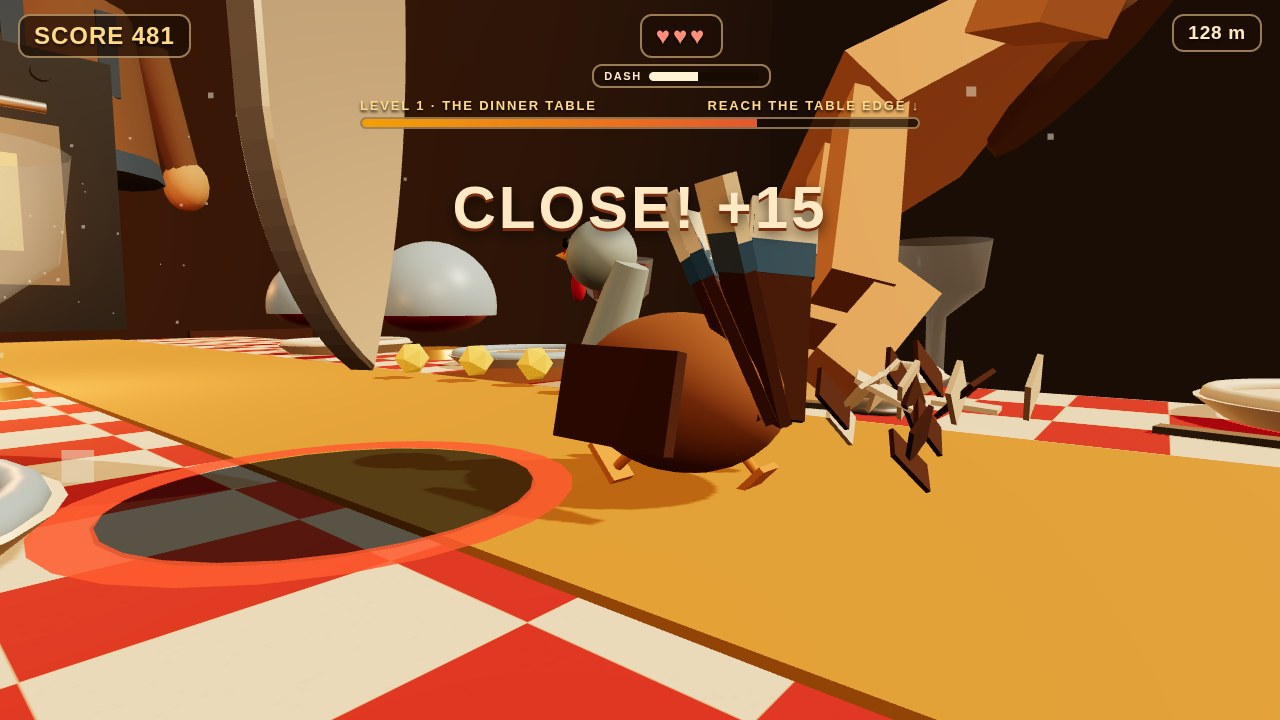
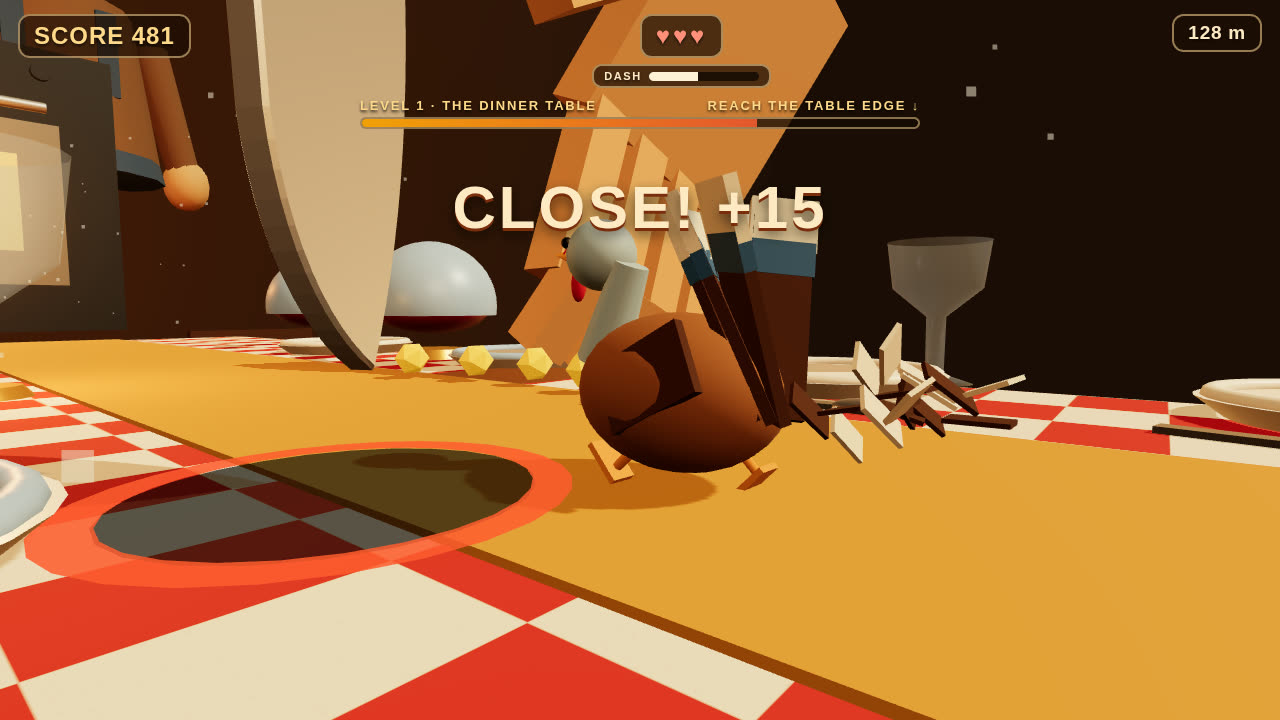
Hero fix: unoccluded turkey (wings tucked into flanks) + giant hand fully in frame, palm and fingers descending at top right

diff --git a/game/src/shots.js b/game/src/shots.js
@@ -27,10 +27,10 @@ export function stageShot(name, game) {
     // to the bird's rear-left so the body reads in three-quarter profile instead
     // of hiding behind its own tail fan, the turkey MID-DASH (stamina bar
     // mid-drain, feather burst blooming at its tail), the carving knife plunging
-    // one body-length to its left over a deep shadow, the farmer's fingers
-    // sweeping in at the frame's right edge, and the real HUD over it all with a
-    // CLOSE! +15 pop still on screen. A genuine gameplay frame, UI and all —
-    // not a cinematic.
+    // one body-length to its left over a deep shadow, the farmer's hand
+    // descending whole into the frame's top right, palm and fingers clear,
+    // and the real HUD over it all with a CLOSE! +15 pop still on screen.
+    // A genuine gameplay frame, UI and all — not a cinematic.
     game.setWorld(0);
     game.state = 'playing';
     game.hud.showHud();
@@ -41,6 +41,18 @@ export function stageShot(name, game) {
     game.turkeyX = -1.6;
     game.turkeyY = 0;
     turkey.group.position.set(-1.6, 0, -134);
+    // Tuck the wings into the flanks for the still: hanging at full size, the
+    // near wing's dark panel clears the body's curved surface and cuts the
+    // silhouette like a slab in front of the bird. Pulled in, shrunk a touch
+    // and swept back (pivot position/scale and rotation.x — animateTurkey
+    // only drives the pivots' rotation.z, so this pose survives the still's
+    // pose pass) the panel sinks into the flank and reads as the folded
+    // wing's shading on one clean round body.
+    for (const w of turkey.wings) {
+      w.pivot.rotation.x = -0.5;
+      w.pivot.position.x = w.side * 0.72;
+      w.pivot.scale.setScalar(0.8);
+    }
     game.stamina = 45;
     game.dashUntil = 999; // mid-dash: the stamina bar renders in its dashing state
     game.distance = 126.5; // burst origin a step behind the bird, so feathers read
@@ -76,16 +88,18 @@ export function stageShot(name, game) {
     knife.blob.visible = true;
     knife.ring.position.set(-4.6, 0.26, -137.2);
     knife.ring.visible = true;
-    // The farmer's hand swoops in from the top right, pitched down so the
-    // camera sees the palm's underside and the fingers curling down toward
-    // the bird — a grabbing hand, not the edge-on stack of boards the old
-    // cloth-height, level placement rendered as. The cuff exits the frame's
-    // top right corner; the bird keeps the centre.
+    // The farmer's hand descends whole into the top right of the frame:
+    // pitched steeply (rotation.x ≈ -1.15) so its fingers point down at the
+    // bird and the camera sees the palm's underside with the fingers spread
+    // and curling — the whole palm and all four fingers inside the frame,
+    // only the cuff/forearm leaving by the top edge. (At the old placement,
+    // far right and nearly level, the frame's edge cropped it into a stack
+    // of abstract blocks.) The bird keeps the centre.
     const hand = hazards.hand;
-    hand.group.position.set(17.0, 9.2, -136.5);
-    hand.group.rotation.set(-0.85, 0.9, 0.15);
+    hand.group.position.set(14.2, 12.6, -143.5);
+    hand.group.rotation.set(-1.15, 0.35, -0.15);
     hand.group.visible = true;
-    setGrab(hand, 0.85);
+    setGrab(hand, 0.5);
     let placed = 0;
     for (const c of hazards.corns) {
       if (placed >= 5) break;
